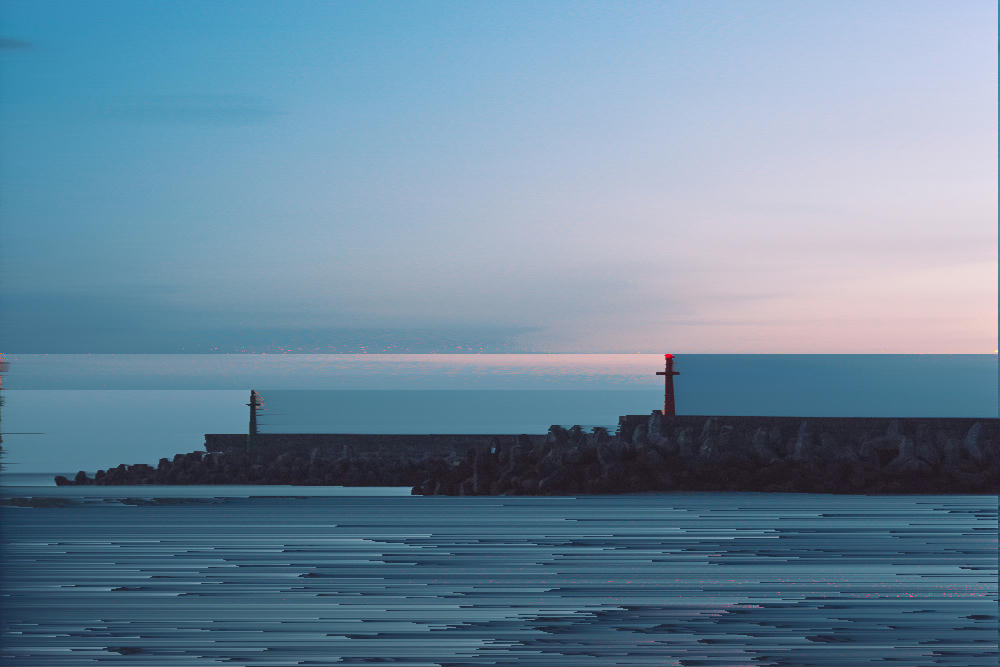
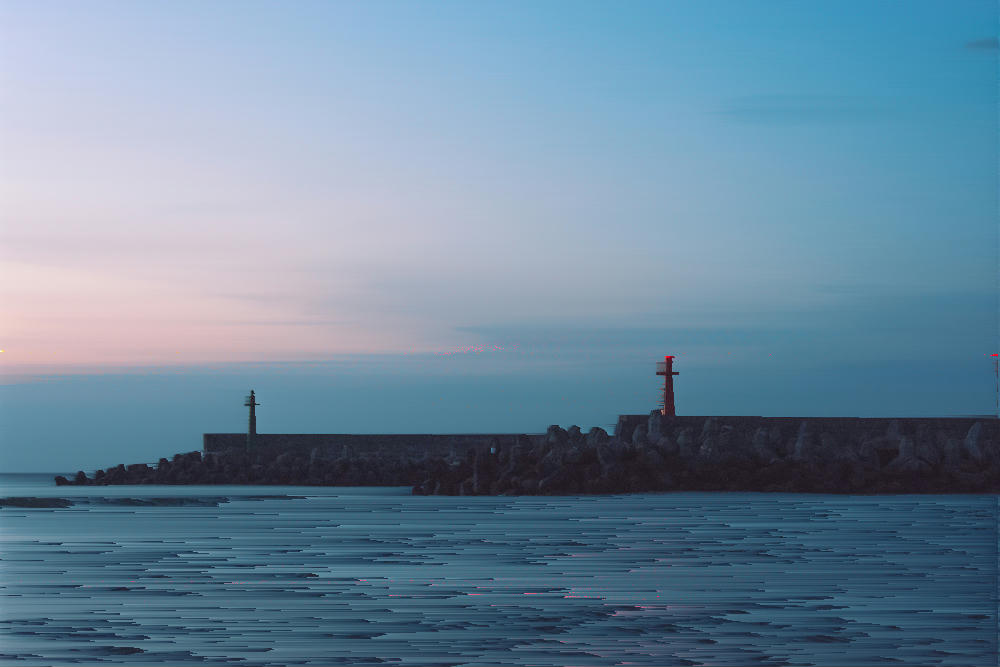
Update example images with fixed luma calculation

diff --git a/README.md b/README.md
@@ -53,8 +53,8 @@ Original                    | Sorted                           |
 Command
 
 ```bash
-# uses default settings: rightwards based on luma with min bound of 50
-eilpx -i img/lighthouse.jpg -o img/lighthouse_sorted.jpg
+# sorts leftwards based on luma with min bound of 50
+eilpx -i img/lighthouse.jpg -o img/lighthouse_sorted.jpg -d left
 ```
 
 Original                        | Sorted                               |
